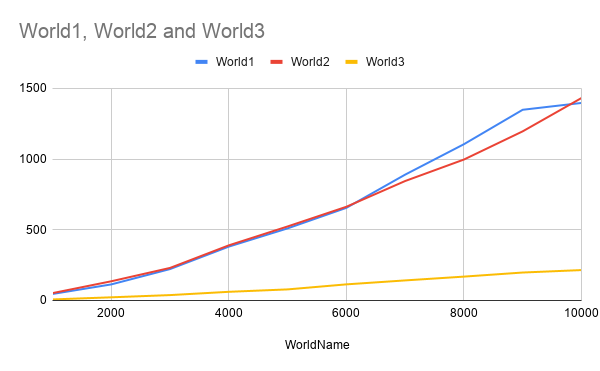
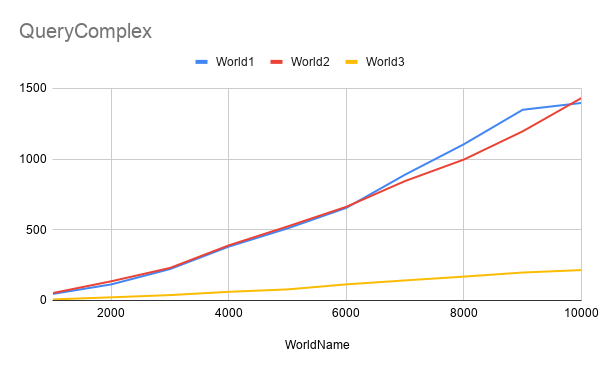
Sparse-Set ECS implementation

Changed region(s): [[0.03, 0.0593, 0.45, 0.1186]]

diff --git a/src/ecs/worlds/World4.h b/src/ecs/worlds/World4.h
@@ -1,0 +1,158 @@
+#pragma once
+#include "../ecsBase.h"
+#include "../components.h"
+#include "../componentBitset.h"
+#include "../componentVector.h"
+
+#include <unordered_map>
+#include <unordered_set>
+#include <typeindex>
+#include <any>
+#include <tuple>
+#include <vector>
+#include <string>
+
+#if USE_AMD_UPROF
+#include <AMDProfileController.h>
+#endif
+
+
+/*
+Assumption: Only 1 of any Component Type is added to an Entity
+n = number of entities
+t = number of component types
+*/
+class World4 {
+private:
+	std::vector <std::tuple<Entity, ComponentBitset>> Entities{};
+	ComponentStorage<AllComponents> Storage;
+	EntityId CurrentId{};
+
+public:
+	/*
+	Expected Runtime: O(1) (Amortized)
+	Worst Case Runtime: O(n) (if resizing Entities)
+	*/
+	Entity CreateEntity() {
+		Entity entity{ CurrentId++ };
+		Entities.push_back(std::tuple{ entity, ComponentBitset{} });
+		return entity;
+	}
+
+	/*
+	* Deliberately not removing entity from each ComponentVector,
+	as it will make no difference to results or query perfomance
+	Expected Runtime: O(n)
+	Worst Case Runtime: O(n)
+	*/
+	void RemoveEntity(Entity entity) {
+		std::erase_if(Entities, [entity](auto& tuple) {
+			return std::get<Entity>(tuple) == entity;
+		});
+
+	}
+
+
+	/*
+	Expected Runtime: O(n)
+	Worst Case Runtime: O(n + t) (if resizing componentsMap)
+	*/
+	template<ComponentType T>
+	void AddComponent(Entity entity, T component) {
+		for (auto& [innerEntity, componentTypes] : Entities) {
+			if (innerEntity == entity) {
+				componentTypes.AddComponent<T>();
+				ComponentVector<T>& components = Storage.GetComponentVector<T>();
+				components.AddComponent(entity, component);
+				return;
+			}
+		}
+	}
+
+	/*
+	Expected Runtime: O(n)
+	Worst Case Runtime: O(n + t) (if resizing componentsMap)
+	*/
+	template<ComponentType T>
+	void RemoveComponent(Entity entity) {
+		for (auto& [innerEntity, componentTypes] : Entities) {
+			if (innerEntity == entity) {
+				componentTypes.RemoveComponent<T>();
+				ComponentVector<T> components = Storage.GetComponentVector<T>();
+				components.RemoveComponent(entity);
+				return;
+			}
+		}
+	}
+
+	/*
+	Expected Runtime: O(n)
+	Worst Case Runtime: O(n + t) (if hash collisions)
+	*/
+	template<ComponentType T>
+	T& GetComponent(Entity entity) {
+		ComponentVector<T> components = Storage.GetComponentVector<T>();
+		components.GetComponent(entity);
+	}
+
+	/*
+	Runtime: O(n)
+	*/
+	std::vector<Entity> GetEntities() {
+		std::vector<Entity> entities{};
+		for (auto& [entity, componentTypes] : Entities) {
+			entities.push_back(entity);
+		}
+		return entities;
+	}
+
+	/*
+	Expected Runtime: O(n * t)
+	Worst Case Runtime: O(n * t^2) (if hash collisions)
+	*/
+	template<ComponentType... Ts>
+	std::vector<Entity> GetEntitiesWithComponents() {
+		std::vector<Entity> entities{};
+
+		for (auto& [entity, componentTypes] : Entities) {
+			if (componentTypes.Contains<Ts...>()) {
+				entities.push_back(entity);
+			}
+		}
+		return entities;
+	}
+
+	/*
+	Expected Runtime: O(n * t)
+	Worst Case Runtime: O(n * t^2) (if hash collisions)
+	*/
+	template<ComponentType... Ts>
+	std::vector<std::tuple<Entity, Ts&...>> Query() {
+
+#if USE_AMD_UPROF
+		amdProfileStrictResume();
+#endif
+
+		std::vector<Entity> entities = this->GetEntitiesWithComponents<Ts...>();
+
+		std::vector<std::tuple<Entity, Ts&...>> results{};
+
+		for (Entity entity : entities) {
+
+			std::tuple<Entity, Ts&...> row(entity, Storage.GetComponentVector<Ts>().GetComponent(entity)...);
+			results.push_back(row);
+		}
+
+		return results;
+
+#if USE_AMD_UPROF
+		amdProfileStrictPause();
+#endif
+
+
+	}
+};
+
+
+
+

diff --git a/src/ecs/componentVector.h b/src/ecs/componentVector.h
@@ -1,0 +1,59 @@
+#pragma once
+
+#include <vector>
+#include <tuple>
+#include "components.h"
+
+template<ComponentType T>
+class ComponentVector {
+	std::vector<T> Components{};
+	std::vector<size_t> FreeList{};
+	std::vector<size_t> EntityToIndex{};
+public:
+
+	ComponentVector() {
+		EntityToIndex.resize(100);
+	}
+
+	void AddComponent(Entity entity, T component) {
+		if (FreeList.size() != 0) {
+			size_t freeIndex = FreeList.back();
+			FreeList.pop_back();
+			Components[freeIndex] = component;
+			EntityToIndex[entity.Id] = freeIndex;
+		}
+		else {
+			Components.push_back(component);
+			if (EntityToIndex.size() <= entity.Id) {
+				EntityToIndex.resize(entity.Id * 2);
+			}
+			EntityToIndex[entity.Id] = Components.size() - 1;
+		}
+	};
+
+	// We dont need to remove the component itself, or edit the entities list,
+	// we just need to make the space available for the next user. 
+	void RemoveComponent(Entity entity) {
+		size_t index = EntityToIndex[entity.Id];
+		FreeList.push_back(index);
+	}
+
+	T& GetComponent(Entity entity) {
+		size_t index = EntityToIndex[entity.Id];
+		return Components[index];
+	}
+};
+
+template<typename List>
+class ComponentStorage;
+
+template<typename... Ts>
+class ComponentStorage<TypeList<Ts...>> {
+private:
+	std::tuple<ComponentVector<Ts>...> Storage;
+public:
+	template <ComponentType T>
+	ComponentVector<T>& GetComponentVector() {
+		return std::get<ComponentVector<T>>(Storage);
+	}
+};

diff --git a/src/ecs/components.h b/src/ecs/components.h
@@ -366,3 +366,26 @@ inline MixedComponentE CreateRandomMixedComponentE() {
 		RandomBool(), RandomInt(0, 100), RandomString<10>(), RandomFloat(0.0f, 100.0f), RandomDouble(0.0, 100.0)
 	};
 }
+
+template <typename... Ts>
+struct TypeList {};
+
+using AllComponents = TypeList<
+	IntComponent, FloatComponent, DoubleComponent,
+	TextComponent, BooleanComponent,
+	MixedComponentA, MixedComponentB, MixedComponentC, MixedComponentD, MixedComponentE,
+	LargeNumericComponent, LargeMixedComponentA, LargeMixedComponentB
+>;
+
+// Compile time recursive definition of IndexOf
+template <typename T, typename List>
+struct IndexOf;
+
+template <typename T, typename... Ts>
+struct IndexOf<T, TypeList<T, Ts...>> : std::integral_constant<std::size_t, 0> {};
+
+template <typename T, typename U, typename... Ts>
+struct IndexOf<T, TypeList<U, Ts...>> : std::integral_constant<std::size_t, 1 + IndexOf<T, TypeList<Ts...>>::value> {};
+
+template <typename T>
+inline constexpr std::size_t COMPONENT_INDEX = IndexOf<T, AllComponents>::value;

diff --git a/src/ecs/componentBitset.h b/src/ecs/componentBitset.h
@@ -1,29 +1,11 @@
 #pragma once
 #include <bitset>
+#include "components.h"
 
 
-template <typename... Ts>
-struct TypeList {};
 
-using AllComponents = TypeList<
-	IntComponent, FloatComponent, DoubleComponent,
-	TextComponent, BooleanComponent,
-	MixedComponentA, MixedComponentB, MixedComponentC, MixedComponentD, MixedComponentE,
-	LargeNumericComponent, LargeMixedComponentA, LargeMixedComponentB
->;
 
-// Compile time recursive definition of IndexOf
-template <typename T, typename List>
-struct IndexOf;
 
-template <typename T, typename... Ts>
-struct IndexOf<T, TypeList<T, Ts...>> : std::integral_constant<std::size_t, 0> {};
-
-template <typename T, typename U, typename... Ts>
-struct IndexOf<T, TypeList<U, Ts...>> : std::integral_constant<std::size_t, 1 + IndexOf<T, TypeList<Ts...>>::value> {};
-
-template <typename T>
-inline constexpr std::size_t COMPONENT_INDEX = IndexOf<T, AllComponents>::value;
 
 
 class ComponentBitset {

diff --git a/src/main.cpp b/src/main.cpp
@@ -8,6 +8,7 @@
 #include "ecs/worlds/world1.h"
 #include "ecs/worlds/world2.h"
 #include "ecs/worlds/world3.h"
+#include "ecs/worlds/world4.h"
 #include "experiment/timeReport.h"
 #include "experiment/worldNames.h"
 
@@ -19,13 +20,13 @@
 #include <keepAwake.h>
 
 
-using World = std::variant<World0, World1, World2, World3>;
+using World = std::variant<World0, World1, World2, World3, World4>;
 
 const int iterationsWarmup = 100;
 const int iterationsReal = 100;
 const int numberOfEntitiesWarmup = 1000;
 const std::vector<int> entitiesSet = { 1000, 2000, 3000, 4000, 5000, 6000, 7000, 8000, 9000, 10000 };
-const std::vector<World> worlds = { World1{}, World2{}, World3{} };
+const std::vector<World> worlds = { World3{}, World4{} };
 
 int main(int, char**) {
 	KeepAwakeScope keepAwake;

diff --git a/src/experiment/worldNames.h b/src/experiment/worldNames.h
@@ -5,6 +5,7 @@
 #include "../ecs/worlds/World1.h"
 #include "../ecs/worlds/World2.h"
 #include "../ecs/worlds/World3.h"
+#include "../ecs/worlds/World4.h"
 
 template <typename T>
 constexpr std::string_view WORLD_NAME = "UnknownWorld";
@@ -20,3 +21,6 @@ constexpr std::string_view WORLD_NAME<World2> = "World2";
 
 template <>
 constexpr std::string_view WORLD_NAME<World3> = "World3";
+
+template <>
+constexpr std::string_view WORLD_NAME<World4> = "World4";

diff --git a/README.md b/README.md
@@ -12,7 +12,7 @@ Here we analyse our implementations and attempt to iteratively improve upon them
 Our starting point is World0, and we will be focusing mainly on the Query function, 
 as that is what would run every frame multiple times in a real scenario. 
 
-## World0
+## World0 -> World1
 
 The complexity of Query for World0 is O(n * t_q * t), 
 where n is the number of entities, t_q is the number of queried components, and t is the total number of components an entity might have.
@@ -38,7 +38,7 @@ World1 is much faster than World0, which is what we expected.
 There are 0-10 components on each Entity, so about a 8-15x speedup is about right, 
 especially considering we were doing the loop over all components twice.
 
-## World1/World2
+## World1/World2 -> World3
 
 Using AMD UProf (or similar tools) we can inspect the running of our program, 
 to see how it behaves in a real run.
@@ -48,8 +48,14 @@ with most of the remainder in the creation of the tuple we send back.
 It should be noted that attributing cycles to specific functions is not neccesarily super exact, 
 as its based on sampling, but it can often give a good indication. 
 
+### Hypothesis
+
 The World1 implementation using Hashmaps causes a lot of pointer chasing to get to the data we need,
 menaing a lot of seperate data lookups, which are likely not going to be in the cache. 
+
+
+### Testing
+
 World2 attempts to cut down on this by having a Hashset of just the types, instead of a Hashmap from the types to the actual data. 
 This turns out to make no difference, as just getting to the types is still the same amount of pointer chasing. 
 
@@ -60,6 +66,24 @@ is stored sequentially in memory, allowing for much more effecient data processi
 ![World1 to World3](./images/World1ToWorld3.png)
 
 As we can see, the bitset is indeed much more effecient. 
+
+## World3 -> World4 (Sparse Set ECS Implementation)
+
+### Hypothesis
+We saw large improvements when we reduced the pointer chasing of the check of which entities had the right components.
+A similar improvement to the cache effeciency of reading and getting the components data will likely result in a similar improvement. 
+
+### Testing
+
+We introduce a seperate vector for each component type, allowing for dense storage and lookup of each component. 
+Alongside each of these component vectors, we have a sparse vector mapping EntityId to the index in the component vector, 
+allowing us to easily lookup in the correct place, these simple array lookups rather than the pointer chasing of the previous implementation,
+should be substantially faster. 
+We also introduce a "FreeIndexes" array to reuse deleted component slots, rather than eternally growing the arrays. 
+
+![World3 to World4](./images/World3ToWorld4.png)
+
+We do indeed see a massive improvement to the runtime in World4. 
 
 # Building
 
